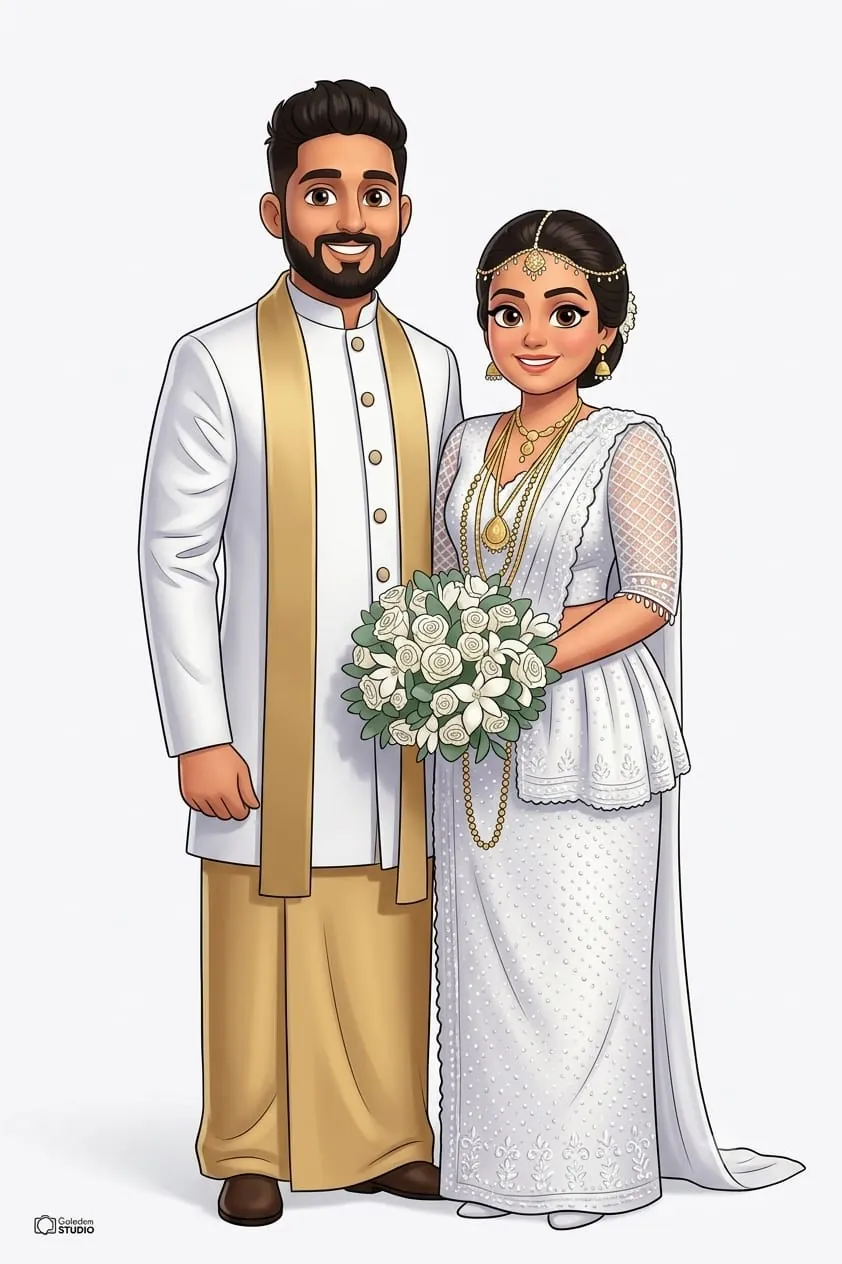
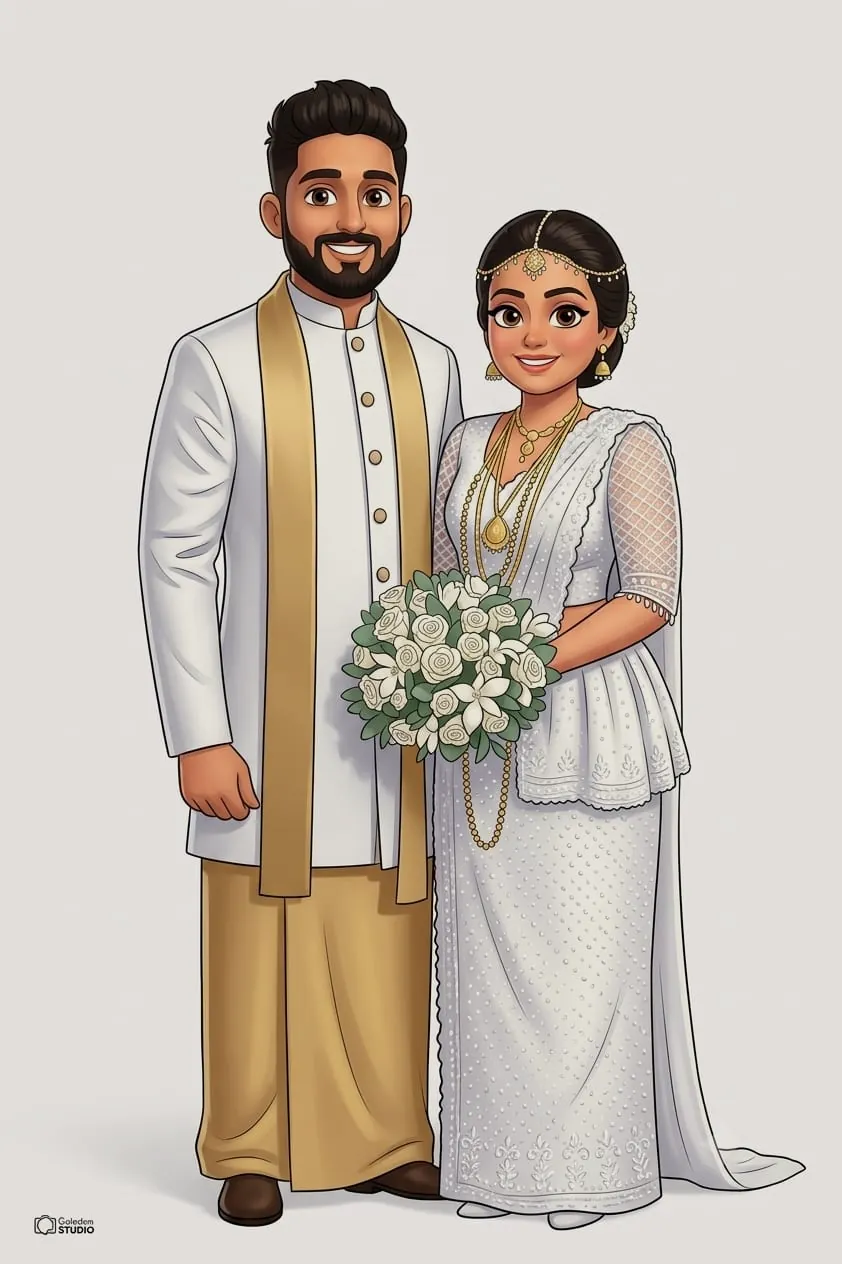
Fix invitation not loading on iPhones
- Bake the ash background into the illustrations instead of using
  mix-blend-mode, which iOS Safari renders unreliably
- Disable large blur glows and backdrop blurs on phones and iOS to
  avoid Safari running out of graphics memory and reloading the tab
- Start the intro video first inside the tap, and open the invitation
  if the video can't play (Low Power Mode, errors, slow network)
- Fewer falling petals on small screens

diff --git a/src/components/EnvelopeOpening.tsx b/src/components/EnvelopeOpening.tsx
@@ -1,4 +1,4 @@
-import React, { useState, useRef } from "react";
+import React, { useState, useRef, useEffect } from "react";
 import { motion, AnimatePresence } from 'motion/react';
 
 export function EnvelopeOpening({ guestName, onComplete, onMusicStart }: { guestName?: string | null, onComplete: () => void, onMusicStart?: () => void }) {
@@ -6,18 +6,42 @@ export function EnvelopeOpening({ guestName, onComplete, onMusicStart }: { guest
   const [showButton, setShowButton] = useState(true);
   const videoRef = useRef<HTMLVideoElement>(null);
 
+  const completedRef = useRef(false);
+
+  const handleVideoEnd = () => {
+    if (completedRef.current) return;
+    completedRef.current = true;
+    onComplete();
+  };
+
   const handleStart = () => {
     setShowButton(false);
     setIsPlaying(true);
-    if (onMusicStart) onMusicStart();
-    if (videoRef.current) {
-      videoRef.current.play().catch(console.error);
+
+    // Play the video first, inside the tap, so iOS Safari treats it as user-initiated
+    const video = videoRef.current;
+    if (video) {
+      video.muted = true;
+      video.play().catch((error) => {
+        console.error(error);
+        handleVideoEnd();
+      });
+    } else {
+      handleVideoEnd();
     }
+
+    if (onMusicStart) onMusicStart();
   };
 
-  const handleVideoEnd = () => {
-    onComplete();
-  };
+  // If the video still hasn't started a few seconds after the tap (Low Power Mode,
+  // slow network), open the invitation instead of leaving the guest waiting.
+  useEffect(() => {
+    if (!isPlaying) return;
+    const timer = setTimeout(() => {
+      if (videoRef.current && videoRef.current.currentTime === 0) handleVideoEnd();
+    }, 6000);
+    return () => clearTimeout(timer);
+  }, [isPlaying]);
 
   return (
     <div className="fixed inset-0 bg-[#142540] z-[100] flex items-center justify-center overflow-hidden">
@@ -31,6 +55,7 @@ export function EnvelopeOpening({ guestName, onComplete, onMusicStart }: { guest
         preload="auto"
         muted
         onEnded={handleVideoEnd}
+        onError={() => { if (isPlaying) handleVideoEnd(); }}
       />
       
       <AnimatePresence>

diff --git a/src/components/CeremonyDetails.tsx b/src/components/CeremonyDetails.tsx
@@ -99,7 +99,7 @@ export const CeremonyDetails: React.FC = () => {
                   e.currentTarget.onerror = null; 
                 }}
                 alt={`${wedding.groom.name} and ${wedding.bride.name}`}
-                className="w-full h-full object-cover object-[center_15%] mix-blend-multiply transition-transform duration-[2s] ease-out group-hover:scale-[1.04]"
+                className="w-full h-full object-cover object-[center_15%] transition-transform duration-[2s] ease-out group-hover:scale-[1.04]"
               />
               <div className="absolute inset-0 bg-gradient-to-t from-black/20 via-transparent to-black/5 pointer-events-none mix-blend-overlay opacity-opacity-70 group-hover:opacity-100 transition-opacity duration-1000" />
             </div>

diff --git a/src/index.css b/src/index.css
@@ -97,3 +97,30 @@ html, body {
 .arch-shape {
   border-radius: 12rem 12rem 0.5rem 0.5rem;
 }
+/* Lighter rendering on phones and iOS: large blur glows and backdrop blurs
+   can exhaust iOS Safari's graphics memory and crash the tab. */
+@media (max-width: 1023px) {
+  [class*="blur-["],
+  .blur-xl,
+  .blur-2xl,
+  .blur-3xl {
+    display: none !important;
+  }
+  * {
+    -webkit-backdrop-filter: none !important;
+    backdrop-filter: none !important;
+  }
+}
+
+@supports (-webkit-touch-callout: none) {
+  [class*="blur-["],
+  .blur-xl,
+  .blur-2xl,
+  .blur-3xl {
+    display: none !important;
+  }
+  * {
+    -webkit-backdrop-filter: none !important;
+    backdrop-filter: none !important;
+  }
+}

diff --git a/src/components/CoupleDetails.tsx b/src/components/CoupleDetails.tsx
@@ -69,7 +69,7 @@ export const CoupleDetails: React.FC = () => {
                 e.currentTarget.onerror = null;
               }}
               alt={`${wedding.groom.name} and ${wedding.bride.name}`}
-              className="w-full h-full object-cover object-[center_40%] mix-blend-multiply transition-transform duration-[1.5s] ease-out group-hover:scale-[1.04]"
+              className="w-full h-full object-cover object-[center_40%] transition-transform duration-[1.5s] ease-out group-hover:scale-[1.04]"
             />
             {/* Elegant inner shadow & overlay */}
             <div className="absolute inset-0 shadow-[inset_0_0_40px_rgba(0,0,0,0.1)] pointer-events-none" />

diff --git a/src/components/Hero.tsx b/src/components/Hero.tsx
@@ -26,7 +26,7 @@ export const Hero: React.FC<{ guestName: string | null }> = ({ guestName }) => {
           fetchPriority="high"
           decoding="async"
           alt={`${wedding.groom.name} and ${wedding.bride.name}`}
-          className="w-full h-full object-cover sm:object-contain mix-blend-multiply"
+          className="w-full h-full object-cover sm:object-contain"
           style={{ objectPosition: 'center 30%' }}
         />
         {/* Soft elegant gradient overlays to ensure text readability & premium feel */}

diff --git a/src/components/FloatingPetals.tsx b/src/components/FloatingPetals.tsx
@@ -17,7 +17,7 @@ export const FloatingPetals: React.FC = () => {
 
   useEffect(() => {
     const colors = ['#a9a398', '#e2c98f', '#c19a4b', '#ebe8e2'];
-    const newPetals = Array.from({ length: 30 }).map((_, i) => ({
+    const newPetals = Array.from({ length: window.matchMedia('(max-width: 767px)').matches ? 12 : 30 }).map((_, i) => ({
       id: i,
       x: Math.random() * 100,
       size: Math.random() * 8 + 8,
